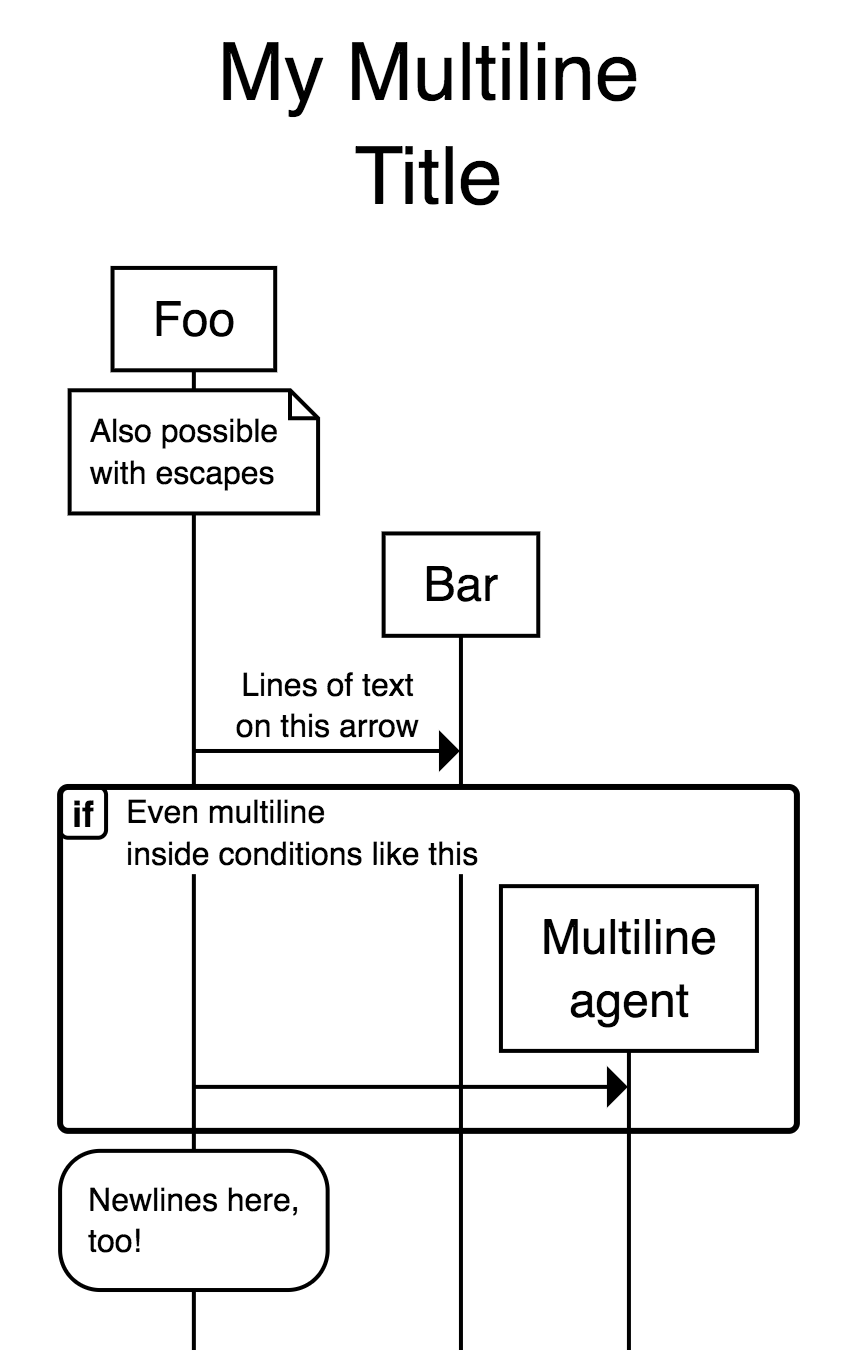
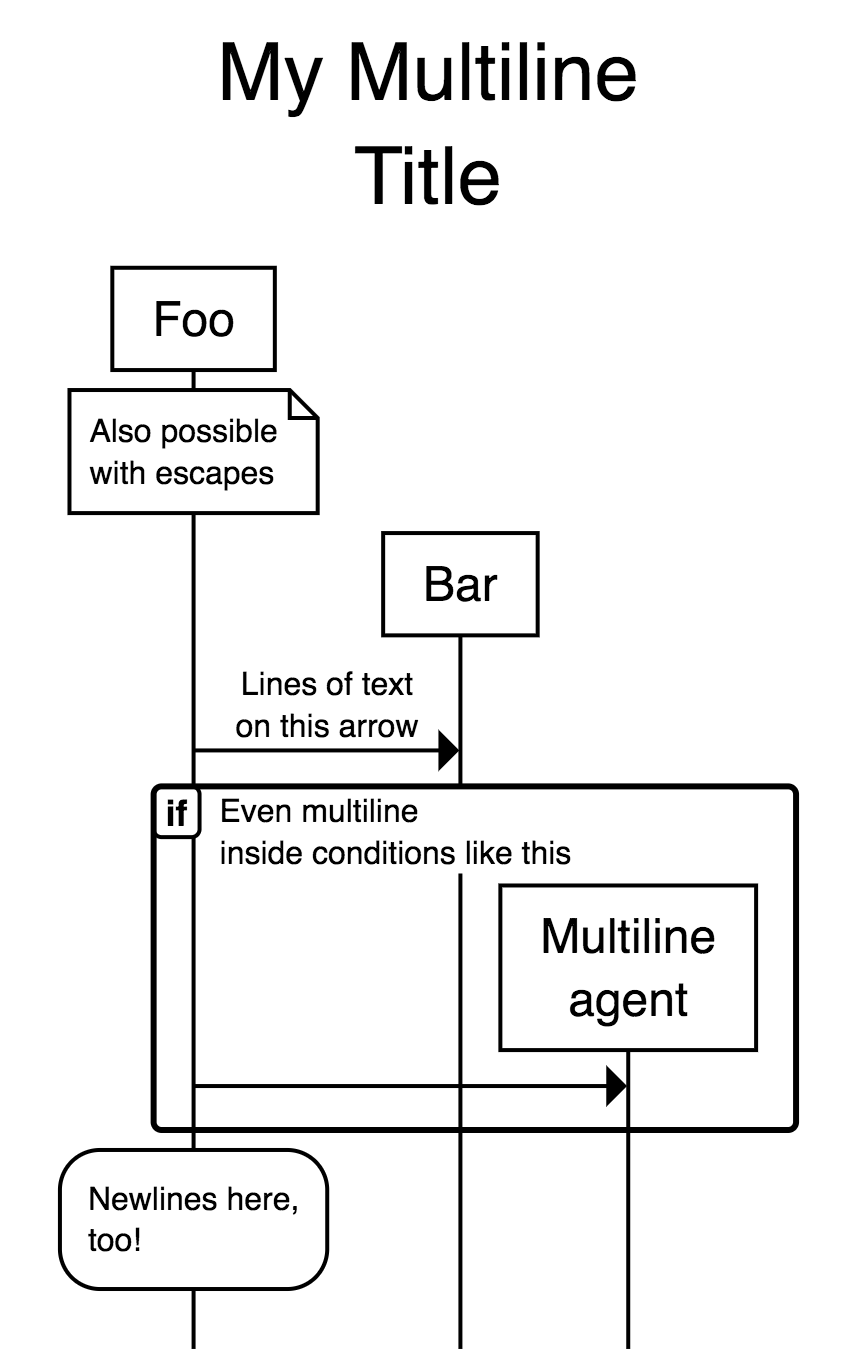
Align left edge of boxes as far right as possible [#9]

diff --git a/scripts/sequence/Renderer.js b/scripts/sequence/Renderer.js
@@ -696,11 +696,46 @@ define([
 			this.renderAction[stage.type](stage);
 		}
 
+		positionAgents() {
+			// Map guarantees insertion-order iteration
+			const orderedInfos = [];
+			this.agentInfos.forEach((agentInfo) => {
+				let currentX = 0;
+				agentInfo.separations.forEach((dist, otherAgent) => {
+					const otherAgentInfo = this.agentInfos.get(otherAgent);
+					if(otherAgentInfo.index < agentInfo.index) {
+						currentX = Math.max(currentX, otherAgentInfo.x + dist);
+					}
+				});
+				agentInfo.x = currentX;
+				this.minX = Math.min(this.minX, currentX);
+				this.maxX = Math.max(this.maxX, currentX);
+				orderedInfos.push(agentInfo);
+			});
+
+			let previousInfo = {x: 0};
+			orderedInfos.reverse().forEach((agentInfo) => {
+				let currentX = previousInfo.x;
+				previousInfo = agentInfo;
+				if(!agentInfo.anchorRight) {
+					return;
+				}
+				agentInfo.separations.forEach((dist, otherAgent) => {
+					const otherAgentInfo = this.agentInfos.get(otherAgent);
+					if(otherAgentInfo.index > agentInfo.index) {
+						currentX = Math.min(currentX, otherAgentInfo.x - dist);
+					}
+				});
+				agentInfo.x = currentX;
+			});
+		}
+
 		buildAgentInfos(agents, stages) {
 			this.agentInfos = new Map();
 			agents.forEach((agent, index) => {
 				this.agentInfos.set(agent, {
 					label: agent,
+					anchorRight: agent.endsWith('['),
 					index,
 					x: null,
 					latestYStart: null,
@@ -711,19 +746,7 @@ define([
 			this.visibleAgents = ['[', ']'];
 			traverse(stages, this.separationTraversalFns);
 
-			agents.forEach((agent) => {
-				const agentInfo = this.agentInfos.get(agent);
-				let currentX = 0;
-				agentInfo.separations.forEach((dist, otherAgent) => {
-					const otherAgentInfo = this.agentInfos.get(otherAgent);
-					if(otherAgentInfo.x !== null) {
-						currentX = Math.max(currentX, otherAgentInfo.x + dist);
-					}
-				});
-				agentInfo.x = currentX;
-				this.minX = Math.min(this.minX, currentX);
-				this.maxX = Math.max(this.maxX, currentX);
-			});
+			this.positionAgents();
 		}
 
 		updateBounds(stagesHeight) {
